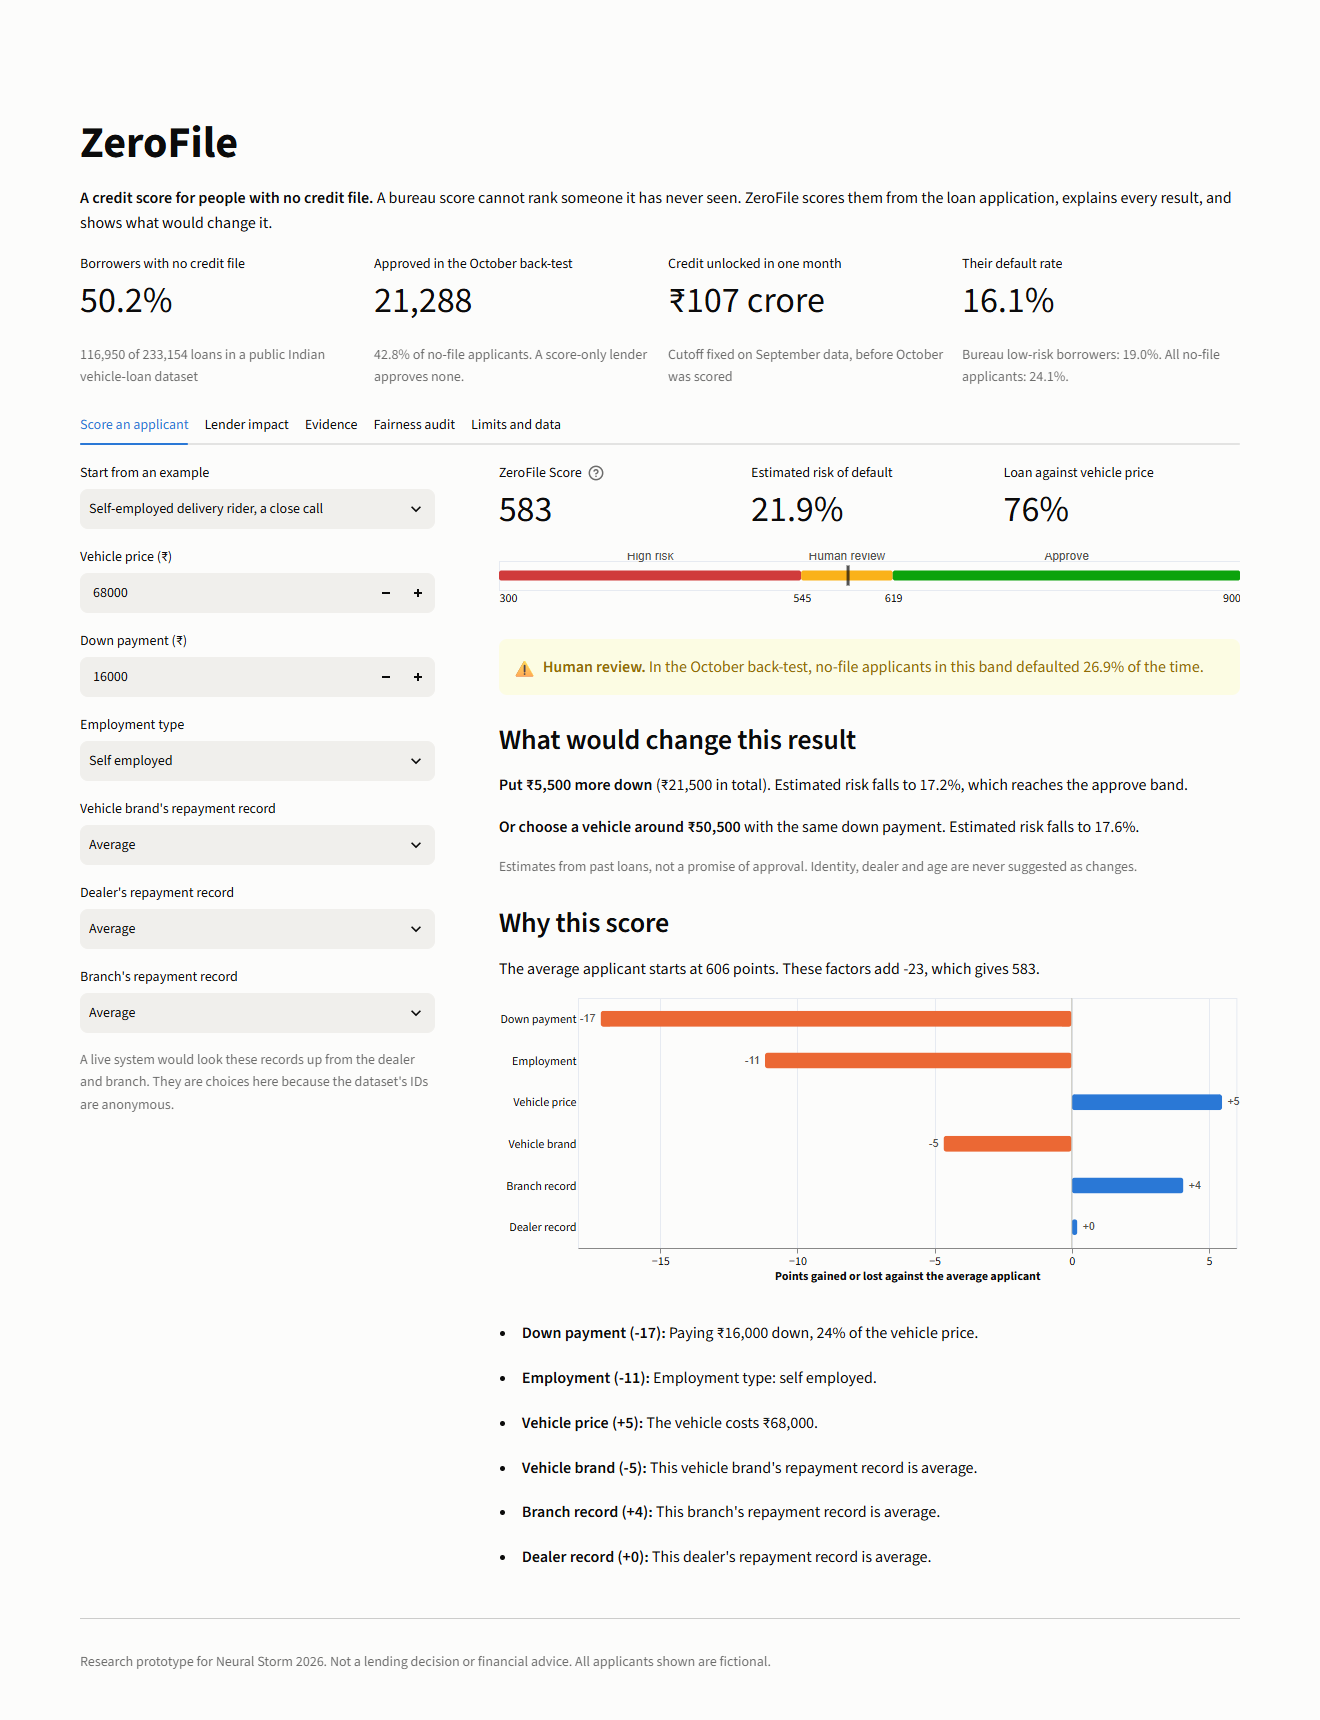
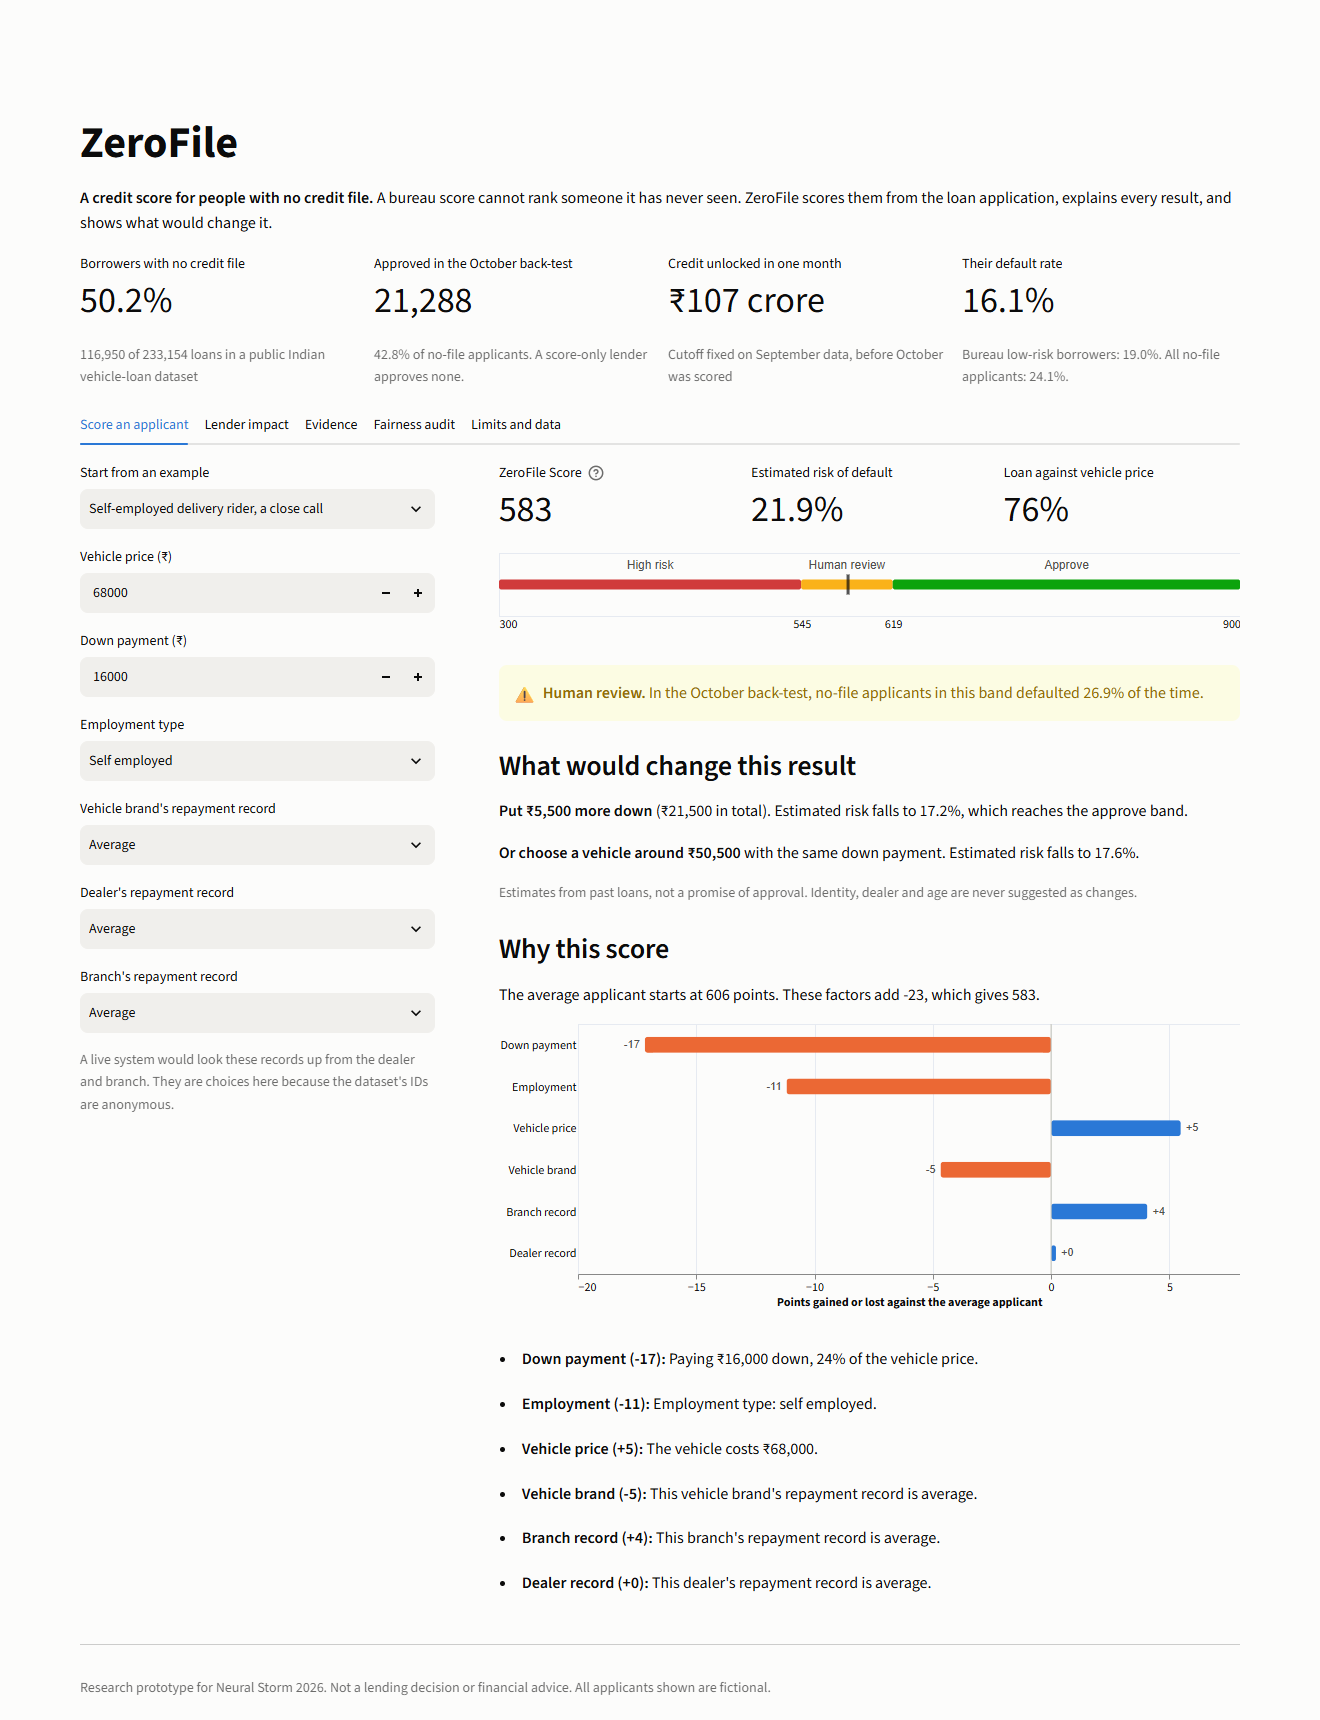
fix(app): stop band labels clipping and give bar labels room

Changed region(s): [[0.3727, 0.3081, 0.9318, 0.9244], [0.0621, 0.9552, 0.5902, 0.986]]

diff --git a/app.py b/app.py
@@ -84,14 +84,14 @@ def score_scale(points: float, high_at: float, approve_at: float):
     )
     names = alt.Chart(bands).mark_text(dy=-20, fontSize=12, color=SECONDARY).encode(x=alt.X("middle:Q", scale=alt.Scale(domain=[300, 900])), text="band:N")
     marker = alt.Chart(pd.DataFrame({"points": [points]})).mark_tick(color=INK, thickness=3, size=20).encode(x=alt.X("points:Q", scale=alt.Scale(domain=[300, 900])))
-    return alt.layer(bar, names, marker).properties(height=70)
+    return alt.layer(bar, names, marker).properties(height=96)
 
 
 def breakdown_chart(reasons: list):
     rows = pd.DataFrame(reasons)
     rows["label"] = rows["points"].map(lambda value: f"{value:+.0f}")
     y = alt.Y("factor:N", sort=None, title=None, axis=alt.Axis(domain=False, ticks=False, labelLimit=160))
-    x = alt.X("points:Q", title="Points gained or lost against the average applicant", axis=alt.Axis(tickCount=6))
+    x = alt.X("points:Q", title="Points gained or lost against the average applicant", axis=alt.Axis(tickCount=6), scale=alt.Scale(padding=40))
     tip = [alt.Tooltip("factor:N", title="Factor"), alt.Tooltip("label:N", title="Points"), alt.Tooltip("detail:N", title="Why")]
     bars = alt.Chart(rows).mark_bar(size=16, cornerRadius=3).encode(y=y, x=x, color=alt.condition(alt.datum.points >= 0, alt.value(BLUE), alt.value(ORANGE)), tooltip=tip)
     gains = alt.Chart(rows[rows["points"] >= 0]).mark_text(align="left", dx=5, color=SECONDARY).encode(y=y, x="points:Q", text="label:N")
